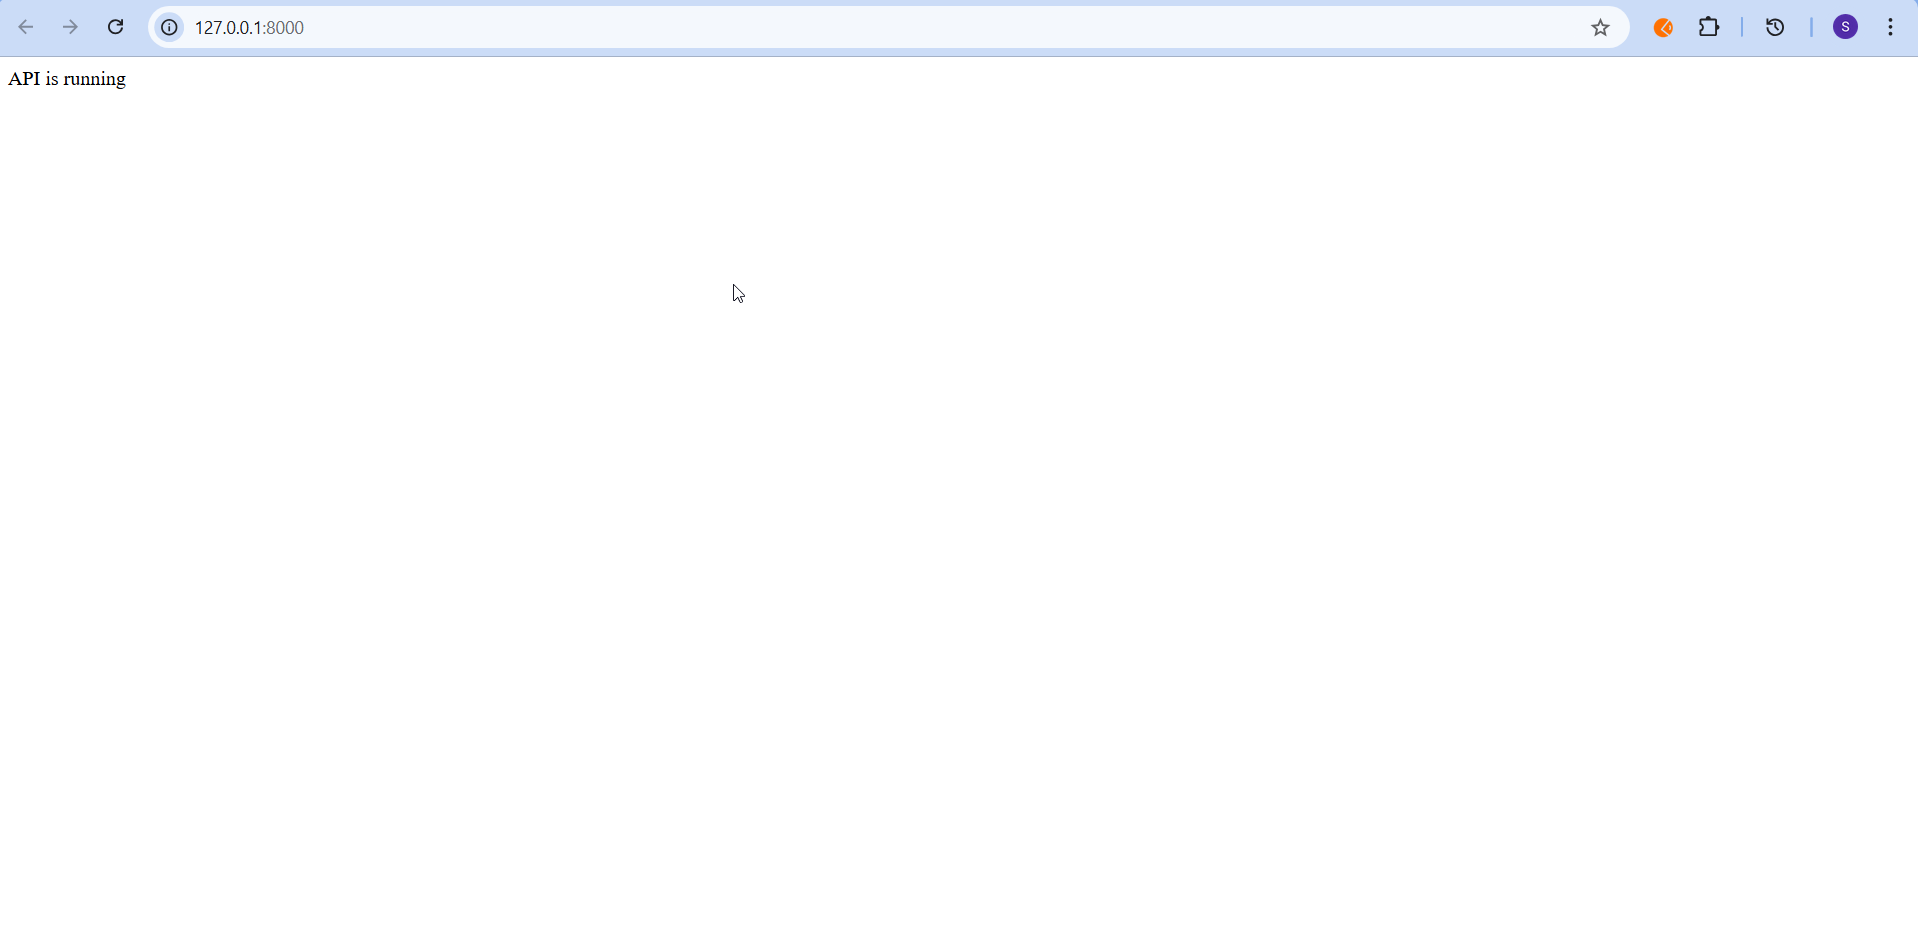
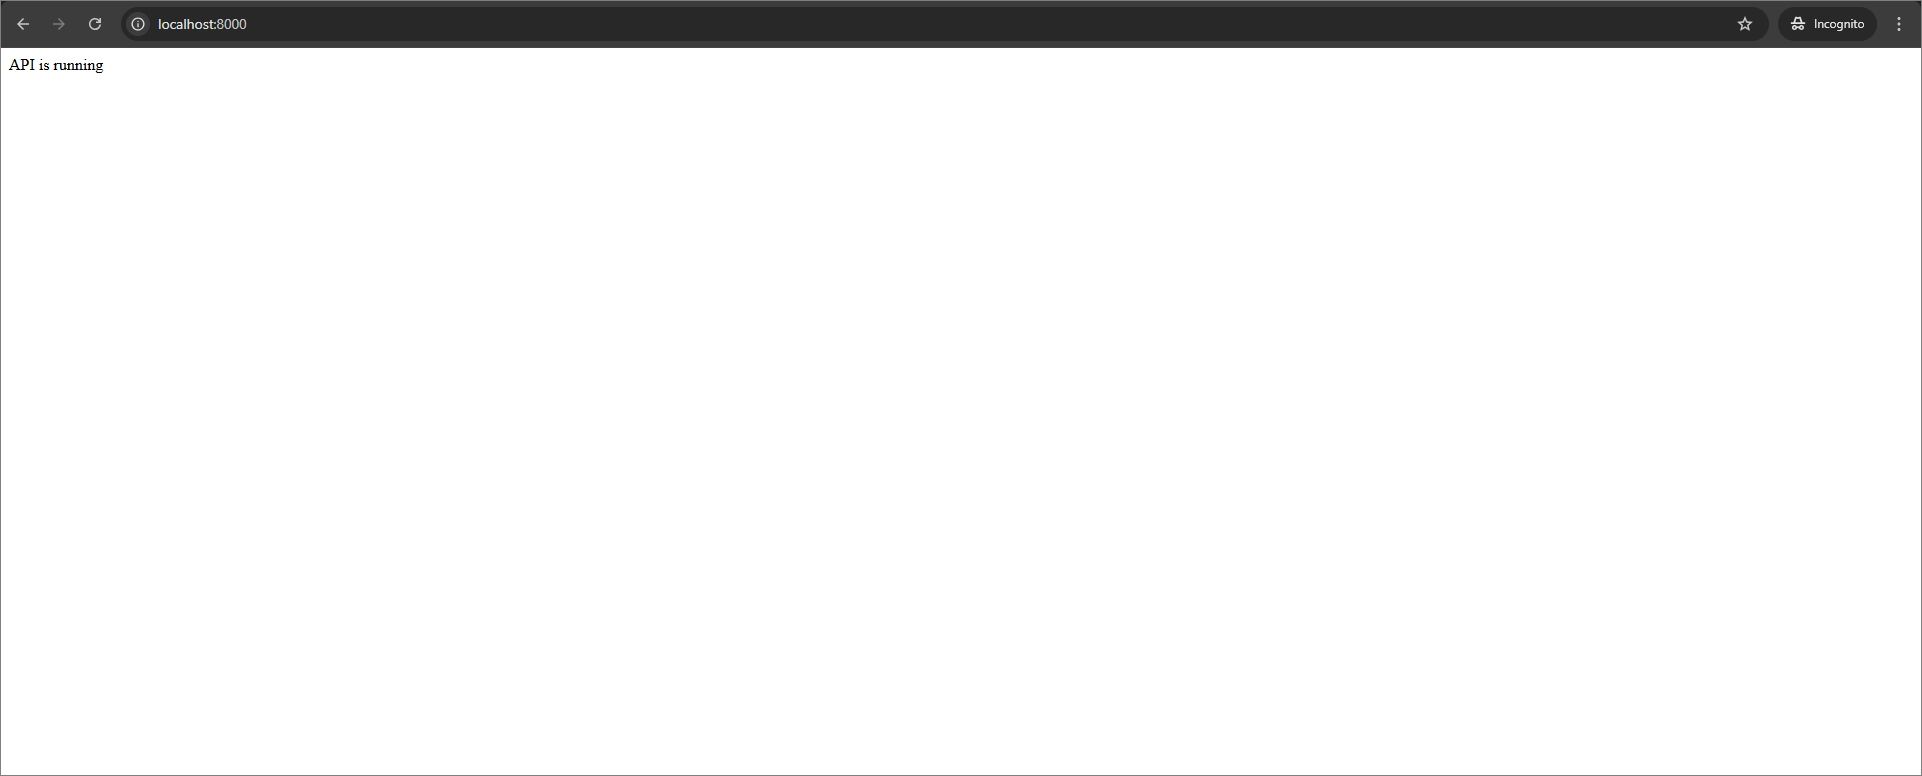
updated readme

Changed region(s): [[0.0, 0.0, 1.0, 0.0928], [0.0, 0.9897, 1.0, 1.0]]

diff --git a/python/django-sample-master/template/index.html b/python/django-sample-master/template/index.html
@@ -2,29 +2,10 @@
     <html>
     
     <head>
-        <!-- <script type='text/javascript' src='https://cdnjs.cloudflare.com/ajax/libs/jquery/3.6.0/jquery.min.js'></script>
-        <script type="text/javascript" src="https://cdn.boldbi.com/embedded-sdk/v6.1.8/boldbi-embed.js"></script>        
-        <script type="text/javascript">
-            $(document).ready(function(){
-            this.dashboard = BoldBI.create(
-                        { serverUrl:'{{server_url}}',
-                         dashboardId:'{{dashboard_id}}',
-                         embedContainerId: 'dashboard',
-                         embedType:'component',
-                         environment:'onpremise',
-                         expirationTime: 100000,
-                         authorizationServer:{url: "{% url 'get_embed_details'%}" },
-                         dashboardSettings:{showExport: false,showRefresh: false,showMoreOption: false}
-                        });
-            console.log(this.dashboard);
-            this.dashboard.loadDashboard();
-                    });
-        </script> -->
     </head>
     
     <body >
         <div id="viewer-section">
-            <!-- <div id="dashboard"></div> -->
             API is running
         </div>
     </body>

diff --git a/README.md b/README.md
@@ -4,7 +4,7 @@ This project was created using React with Python. This application aims to demon
 
 ## Dashboard view
 
-   ![Dashboard view](images/dashboard-view.png)
+   ![Dashboard view](images/dashboard.png)
 
 ## Prerequisites
 
@@ -20,79 +20,55 @@ The samples require the following to run.
 
 #### Supported browsers
   
-* Google Chrome, Microsoft Edge, Mozilla Firefox, and Safari.
+* Google Chrome, Microsoft Edge, and Mozilla Firefox.
+
+## Configuration
+
+* Please [get](https://github.com/boldbi/react-with-aspnet-core-sample/tree/master/React-with-ASP.NETCore) the React with ASP.NET Core sample from GitHub.
+
+* Please ensure you have enabled embed authentication on the `embed settings` page. If it is not currently enabled, please refer to the following image or detailed [instructions](https://help.boldbi.com/site-administration/embed-settings/#get-embed-secret-code?utm_source=github&utm_medium=backlinks) to enable it.
+   ![Embed Settings](/images/enable-embedsecretkey.png)
+
+* To download the `embedConfig.json` file, please follow this [link](https://help.boldbi.com/site-administration/embed-settings/#get-embed-configuration-file?utm_source=github&utm_medium=backlinks) for reference. Additionally, you can refer to the following image for visual guidance.
+  
+    ![Embed Settings Download](/images/download-embedsecretkey.png)
+    ![EmbedConfig Properties](/images/embedconfig-file.png)
+
+* Copy the downloaded `embedConfig.json` file and paste it into the designated [location](https://github.com/boldbi/react-with-python/tree/master/python/django-sample-master) within the application. Please ensure you have placed it in the application, as shown in the following image.
+
+    ![EmbedConfig image](/images/embedconfig-location.png)
 
 ## Developer IDE
 
-* Visual studio code(<https://code.visualstudio.com/download>)
+* [Visual Studio Code](<https://code.visualstudio.com/download>)
 
-### Run a Sample Using Visual Studio Code
+## Run a Sample Using Visual Studio Code
 
- 1. The React application acts as a client, and the Python application acts as a server. In the `models.py` file of the Python application, you need to set the User Email and Embed Secret properties.
+### Python sample via VS Code
 
-    <meta charset="utf-8"/>
-    <table>
-    <tbody>
-        <tr>
-            <td align="left">UserEmail</td>
-            <td align="left">UserEmail of the Admin in your Bold BI, which would be used to get the dashboard list.</td>
-        </tr>
-        <tr>
-            <td align="left">User Password</td>
-            <td align="left">Password of the Admin in Bold BI, which will be used to get the dashboards list.</td>
-        </tr>
-    </tbody>
-    </table>
+  1. Open the [Python Django](https://github.com/boldbi/react-with-python/tree/master/python/django-sample-master) folder in Visual Studio Code.
 
- 2. Once you have provided the details, run the application using the command "python manage.py runserver." The application will be running on port number 8000.
+  2. Open the terminal in Visual Studio Code and execute the command `python manage.py runserver` to run the application.  It will display a URL in the command line interface, typically something like http://localhost:8000. Copy this URL and paste it into your default web browser, as shown in the image below.
 
- 3. Then, once you run your Python application, you will see results similar to those of the React application.
+      ![backend image](/images/backend-api.png)
 
-    ![Python Backend API](images/backend-api.png)
+### React sample via VS Code
 
- 4. To run the React application, we need to set the following properties in the DashboardListing.js file:
+  1. Open the [React](https://github.com/boldbi/react-with-python/tree/master/React) folder in Visual Studio Code.
 
-    ![DashboardListing](images/dashboard-listing.png)
+  2. To install all dependent packages, use the following command `npm install`.
 
-    <meta charset="utf-8"/>
-    <table>
-    <tbody>
-    <tr>
-        <td align="left">SiteIdentifier</td>
-            <td align="left">For the Bold BI Enterprise edition, it should be like `site/site1`. For Bold BI Cloud, it should be an empty string.</td>
-        </tr>
-        <tr>
-            <td align="left">RootUrl</td>
-            <td align="left">Dashboard Server URL (Eg: http://localhost:5000/bi, http://demo.boldbi.com/bi).</td>
-        </tr>
-        <tr>
-            <td align="left">Authorization URL</td>
-            <td align="left">Provide the API end point(get_embed_details) of python application.</td>
-        </tr>
-        <tr>
-            <td align="left">Environment</td>
-            <td align="left">Your Bold BI application environment. (If Cloud, you should use `cloud,` if Enterprise, you should use `onpremise`).</td>
-        </tr>
-        <tr>
-            <td align="left">API Host</td>
-            <td align="left">URL of python application(example: http://localhost:8000/).</td>
-        </tr>
-        <tr>
-            <td align="left">UserEmail</td>
-            <td align="left">UserEmail of the Admin in your Bold BI, which would be used to get the dashboard list.</td>
-        </tr>
-        <tr>
-            <td align="left">User Password</td>
-            <td align="left">Password of the Admin in Bold BI, which will be used to get the dashboards list.</td>
-        </tr>
-    </tbody>
-    </table>
+     > **NOTE:** If you are using Node.js version higher than v16.17, you can update the `package.json` file by adding the following line as a `script` within the `start` command. Make ensure that you replace the existing line with this updated script.
 
- 5. Once you provide these details, run the command “npm install.” After all the packages are installed, run the command “npm start.”
+      ``` bash
+      "start": "react-scripts --openssl-legacy-provider start"
+      ```
 
-    ![Dashboard view](images/dashboard-view.png)
+  3. To run the application, use the command `npm start` in the terminal.  After executing the command, the application will automatically launch in the default browser. You can access it at the specified port number (<http://localhost:3000>). Please refer to the following image.
 
-> **NOTE:** If the API host is already in use, modify the port number per your preference in embed.js and update that Dashboard.js file.
+     ![dashboard view](/images/dashboard.png)
+
+> **NOTE:** We represent the dashboard embedding by default without the dashboard listing sidebar. To view the dashboard listing, provide userEmail and embedSecret values in the `DashboardListing.js` file and then navigate to the URL (such as http://localhost:3000/dashboardlisting).
 
 ## Important notes
 